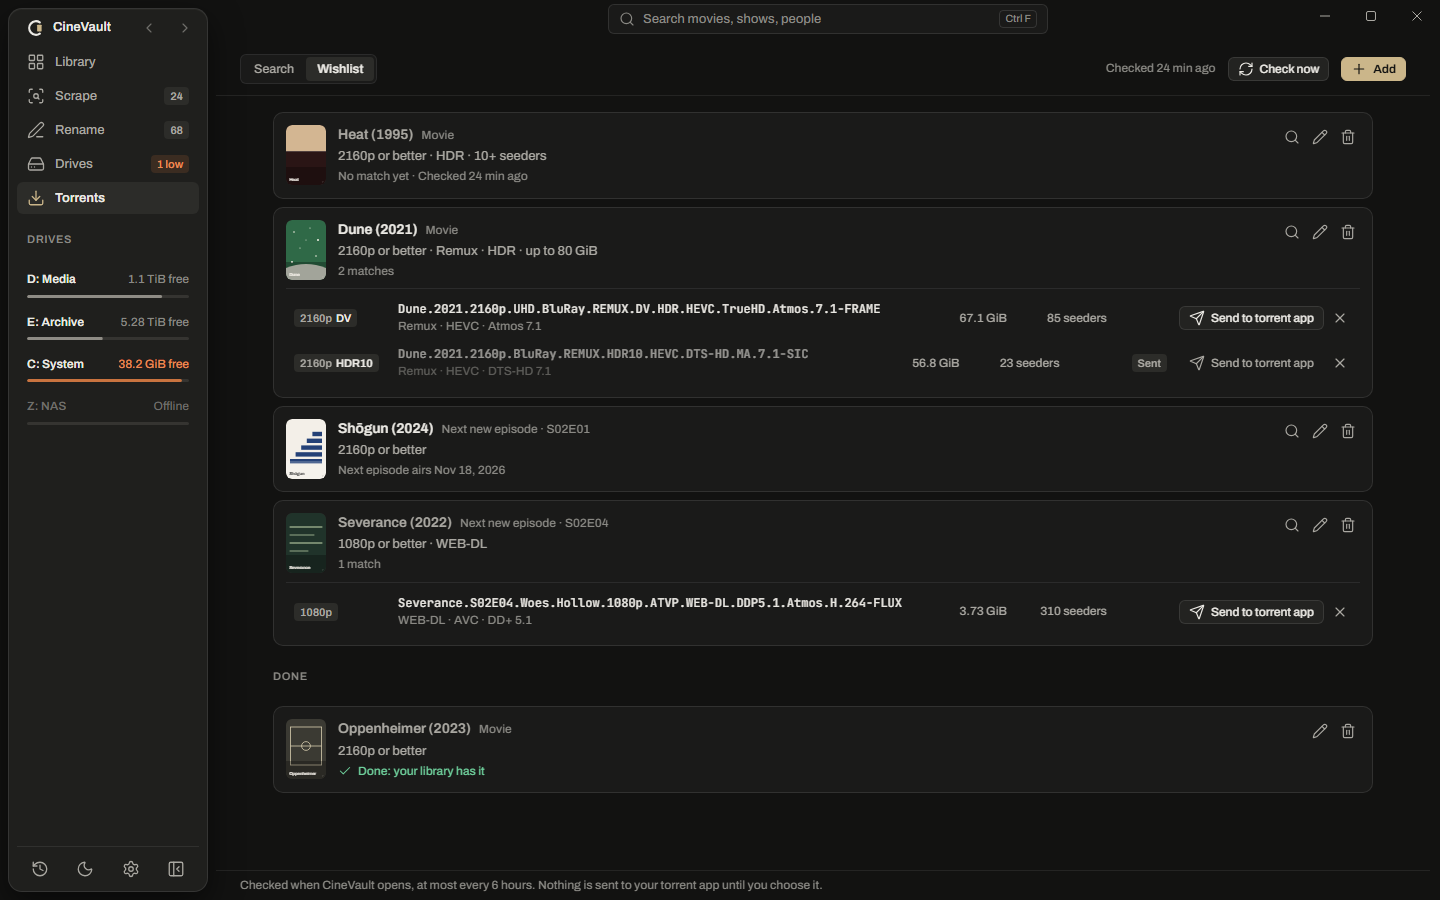
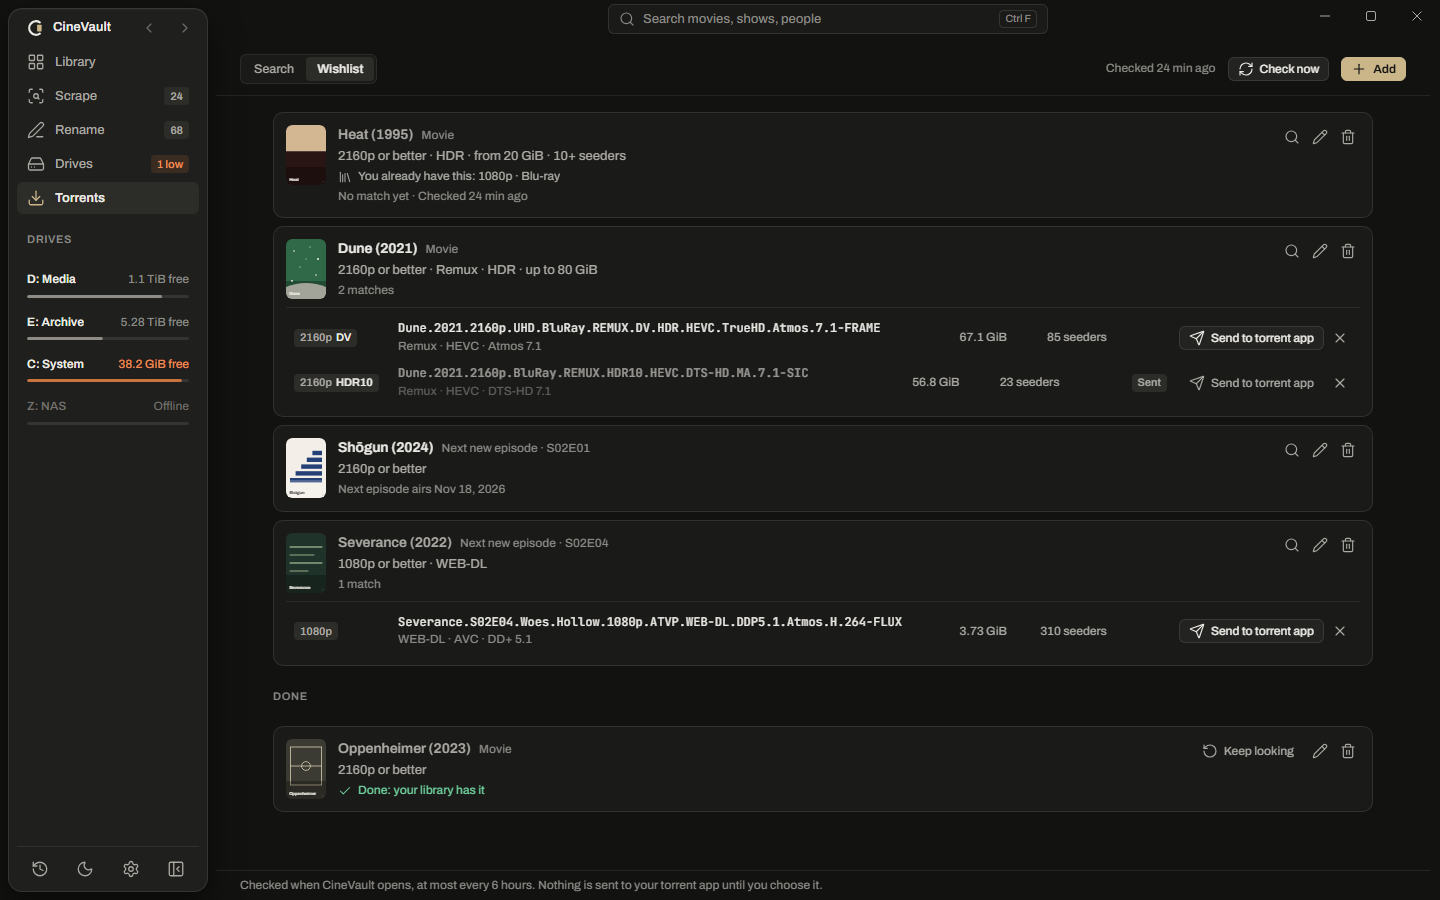
chore(release): 1.6.0
Version 1.6.0 in every version file and the Dockerfile, the dated
changelog section, and the README, landing page and screenshots for
Activity with Needs attention, the Release info style and Metadata only,
and the Wishlist's size range and held copies.

diff --git a/site/index.html b/site/index.html
@@ -232,7 +232,7 @@
         <div class="feature-copy">
           <p class="kicker">Naming styles</p>
           <h2 id="f-naming">Pick a style, or write your own</h2>
-          <p>In Settings, one Style control fills the movie folder, movie file and TV episode templates at once: Clean, Detailed or Media-server safe. Edit any template and it becomes your own; choosing a style over your own templates asks first.</p>
+          <p>In Settings, one Style control fills the movie folder, movie file and TV episode templates at once: Clean, Detailed, Media-server safe or Release info, which keeps the release group and tags of the download. Edit any template and it becomes your own; choosing a style over your own templates asks first. Prefer your own names? Metadata only writes NFOs and artwork and never renames.</p>
           <div class="strip" role="group" aria-label="Example: the folder Dune.Part.Two.2024.2160p.WEB-DL.DV.HDR10.TrueHD.Atmos.7.1-GRP renamed with a naming style">
             <div class="strip-row"><span class="strip-tag">before</span><code class="strip-from"><span>Dune</span><s>.</s><span>Part</span><s>.</s><span>Two</span><s>.2024.2160p.WEB-DL.DV.HDR10.TrueHD.Atmos.7.1-GRP</s></code></div>
             <div class="strip-row"><span class="strip-tag">after</span><code class="strip-to" data-style-out aria-live="polite">Dune - Part Two (2024)</code></div>
@@ -248,7 +248,7 @@
         <figure class="window reveal">
           <picture>
             <source srcset="img/naming-light.webp" media="(prefers-color-scheme: light)">
-            <img src="img/naming-dark.webp" width="1440" height="900" loading="lazy" alt="Settings, Naming: the Style control with Clean, Detailed and Media-server safe, then the movie folder, movie file and TV episode templates, each with a live example and buttons for its fields, and the choice for colons in titles">
+            <img src="img/naming-dark.webp" width="1440" height="900" loading="lazy" alt="Settings, Naming: the Metadata only switch, the Style control with Clean, Detailed, Media-server safe and Release info, then the movie folder, movie file and TV episode templates, each with a live example and buttons for its fields, and the choice for colons in titles">
           </picture>
         </figure>
       </div>
@@ -302,17 +302,17 @@
         <div class="feature-copy">
           <p class="kicker">Wishlist</p>
           <h2 id="f-wishlist">Wait for the right release</h2>
-          <p>Add a movie, a season or the next new episode of a show, with the release you are after: the resolution, the source, HDR, how big and how well seeded. CineVault looks when it opens and tells you when something matches, with a count on Torrents and a short note.</p>
+          <p>Add a movie, a season or the next new episode of a show, with the release you are after: the resolution, the source, HDR, a size range and how well seeded. CineVault looks when it opens and tells you when something matches, with a count on Torrents and a short note.</p>
           <ul class="facts">
             <li>Send a match to your torrent app, or dismiss it for good</li>
-            <li>Done by itself once your library has a copy that meets it</li>
+            <li>Keeps looking for a title you have, until a copy that meets it arrives</li>
             <li>Nothing is ever sent without you choosing it</li>
           </ul>
         </div>
         <figure class="window reveal">
           <picture>
             <source srcset="img/wishlist-light.webp" media="(prefers-color-scheme: light)">
-            <img src="img/wishlist-dark.webp" width="1440" height="900" loading="lazy" alt="The Wishlist: Dune wanted in 2160p Remux with HDR and two matches, the next new episode of Severance with one match, Heat with no match yet, a show waiting for its next episode, and Oppenheimer done, with Check now at the top">
+            <img src="img/wishlist-dark.webp" width="1440" height="900" loading="lazy" alt="The Wishlist: Dune wanted in 2160p Remux with HDR and two matches, the next new episode of Severance with one match, Heat, which you already have in 1080p, with no match yet, a show waiting for its next episode, and Oppenheimer done, with Check now at the top">
           </picture>
         </figure>
       </div>
@@ -321,11 +321,12 @@
     <section class="feature" aria-labelledby="f-history">
       <div class="wrap feature-in">
         <div class="feature-copy">
-          <p class="kicker">History</p>
+          <p class="kicker">Activity</p>
           <h2 id="f-history">Undo for everything that touches your files</h2>
-          <p>Renames, moves, deletes, artwork and match changes are all kept in History, each with its own Undo. Delete sends a title to the Recycle Bin (the Trash on Linux); erasing it for good is a choice in Settings, and Delete then asks Yes or No first.</p>
+          <p>Renames, moves, deletes, artwork and match changes are all kept in History on the Activity page, each with its own Undo. Anything that needs you, like a move to another drive that did not finish, waits at the top with Resume and Roll back. Delete sends a title to the Recycle Bin (the Trash on Linux); erasing it for good is a choice in Settings, and Delete then asks Yes or No first.</p>
           <ul class="facts">
             <li>Undo a whole batch or a single change</li>
+            <li>A move cut short by closing CineVault carries on by itself</li>
             <li>Replaced artwork is kept, so Undo puts it back</li>
             <li>A checked backup of your library every day, the last seven kept</li>
           </ul>

diff --git a/site/changelog.html b/site/changelog.html
@@ -5,7 +5,7 @@
 <meta charset="utf-8">
 <meta name="viewport" content="width=device-width, initial-scale=1">
 <title>CineVault changelog</title>
-<meta name="description" content="What changed in each version of CineVault, from 1.5.0 on, in plain words.">
+<meta name="description" content="What changed in each version of CineVault, from 1.6.0 on, in plain words.">
 <meta name="color-scheme" content="dark light">
 <meta name="theme-color" content="#121211" media="(prefers-color-scheme: dark)">
 <meta name="theme-color" content="#f2f1ee" media="(prefers-color-scheme: light)">
@@ -16,7 +16,7 @@
 <meta property="og:type" content="website">
 <meta property="og:site_name" content="CineVault">
 <meta property="og:title" content="CineVault changelog">
-<meta property="og:description" content="What changed in each version of CineVault, from 1.5.0 on, in plain words.">
+<meta property="og:description" content="What changed in each version of CineVault, from 1.6.0 on, in plain words.">
 <meta property="og:url" content="https://mustafayevt.github.io/CineVault/changelog.html">
 <meta property="og:image" content="https://mustafayevt.github.io/CineVault/img/og.png">
 <meta name="twitter:card" content="summary_large_image">
@@ -53,7 +53,7 @@
       <p class="section-lede">What changed in each version, newest first.</p>
     </header>
     <article class="log-entry" id="v1.6.0">
-      <div class="log-meta"><h2>1.6.0</h2><span class="pill">Coming next</span></div>
+      <div class="log-meta"><h2>1.6.0</h2><time datetime="2026-11-03">3 November 2026</time></div>
       <div class="log-body">
 <h3>Added</h3>
 <ul>

diff --git a/README.md b/README.md
@@ -33,9 +33,9 @@
 - **Activity, History and Undo.** Renames, moves, deletes, artwork and match changes are listed in History on the Activity page, each with Undo. Anything that needs you, such as a move that did not finish or a rejected API key, waits above it under Needs attention with its fix.
 - **Collections.** A collection appears on its own once you own two or more films of the same set.
 - **Torrent search hand-off.** Pick a title from the suggestions, search its releases from inside the app and compare each with what you have, side by side; for a show, see which releases fill your missing episodes. CineVault hands the one you pick to your own torrent app. You are responsible for what you download and share.
-- **Wishlist.** Add a movie, a season or the next new episode of a show with the release you want (resolution, source, HDR, size, seeders). CineVault checks for it when it opens, shows new matches on Torrents with a count, and marks the title done once your library has it. It never sends anything by itself.
+- **Wishlist.** Add a movie, a season or the next new episode of a show with the release you want (resolution, source, HDR, a size range, seeders). CineVault checks for it when it opens, shows new matches on Torrents with a count, and marks the title done once a copy that meets what you asked for arrives. A title you already have keeps being checked, with what you have shown on its entry. It never sends anything by itself.
 - **Desktop feel.** Light and dark themes that follow the system, zoom from 80% to 150%, keyboard chords for everyday actions, and a `cinevault` command line.
-- **Naming styles.** One Style control in Settings › Naming (Clean, Detailed, Media-server safe) fills the movie folder, movie file and TV episode templates; edit any of them to make your own.
+- **Naming styles.** One Style control in Settings › Naming (Clean, Detailed, Media-server safe, Release info) fills the movie folder, movie file and TV episode templates; edit any of them to make your own. Release tokens keep the release group, tags and quality from the download's name. A Metadata only switch leaves every file and folder name alone and only writes NFOs and artwork.
 - **Private by design.** You bring your own provider keys, kept in the OS credential store (the system keyring on Linux). No account, no telemetry.
 
 ## Getting started

diff --git a/CHANGELOG.md b/CHANGELOG.md
@@ -2,7 +2,7 @@
 
 What changed in each version of CineVault, newest first, in plain words. The app shows this file under Settings › Updates › Release notes, and after an update it shows the notes of the version you just got. The format follows [Keep a Changelog](https://keepachangelog.com/en/1.1.0/).
 
-## [1.6.0] - unreleased
+## [1.6.0] - 2026-11-03
 
 ### Added
 
